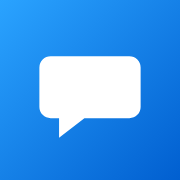
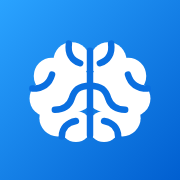
Nieuw icoon

Changed region(s): [[0.1389, 0.2222, 0.8611, 0.8056]]

diff --git a/public/index.html b/public/index.html
@@ -8,13 +8,13 @@
   <meta name="mobile-web-app-capable" content="yes">
   <meta name="apple-mobile-web-app-capable" content="yes">
   <meta name="apple-mobile-web-app-status-bar-style" content="default">
-  <link rel="apple-touch-icon" href="/icon-180.png">
-  <link rel="manifest" href="/manifest.json">
+  <link rel="apple-touch-icon" href="/icon-180.png?v=2">
+  <link rel="manifest" href="/manifest.json?v=2">
   <meta name="apple-mobile-web-app-title" content="Maatje AI">
   <title>Maatje AI</title>
-  <link rel="icon" href="/favicon.ico" sizes="any">
-  <link rel="icon" href="/favicon-32.png" type="image/png" sizes="32x32">
-  <link rel="icon" href="/icon.svg" type="image/svg+xml">
+  <link rel="icon" href="/favicon.ico?v=2" sizes="any">
+  <link rel="icon" href="/favicon-32.png?v=2" type="image/png" sizes="32x32">
+  <link rel="icon" href="/icon.svg?v=2" type="image/svg+xml">
   <link rel="stylesheet" href="/fonts/inter/latin-400.css">
   <link rel="stylesheet" href="/fonts/inter/latin-500.css">
   <link rel="stylesheet" href="/fonts/inter/latin-600.css">
